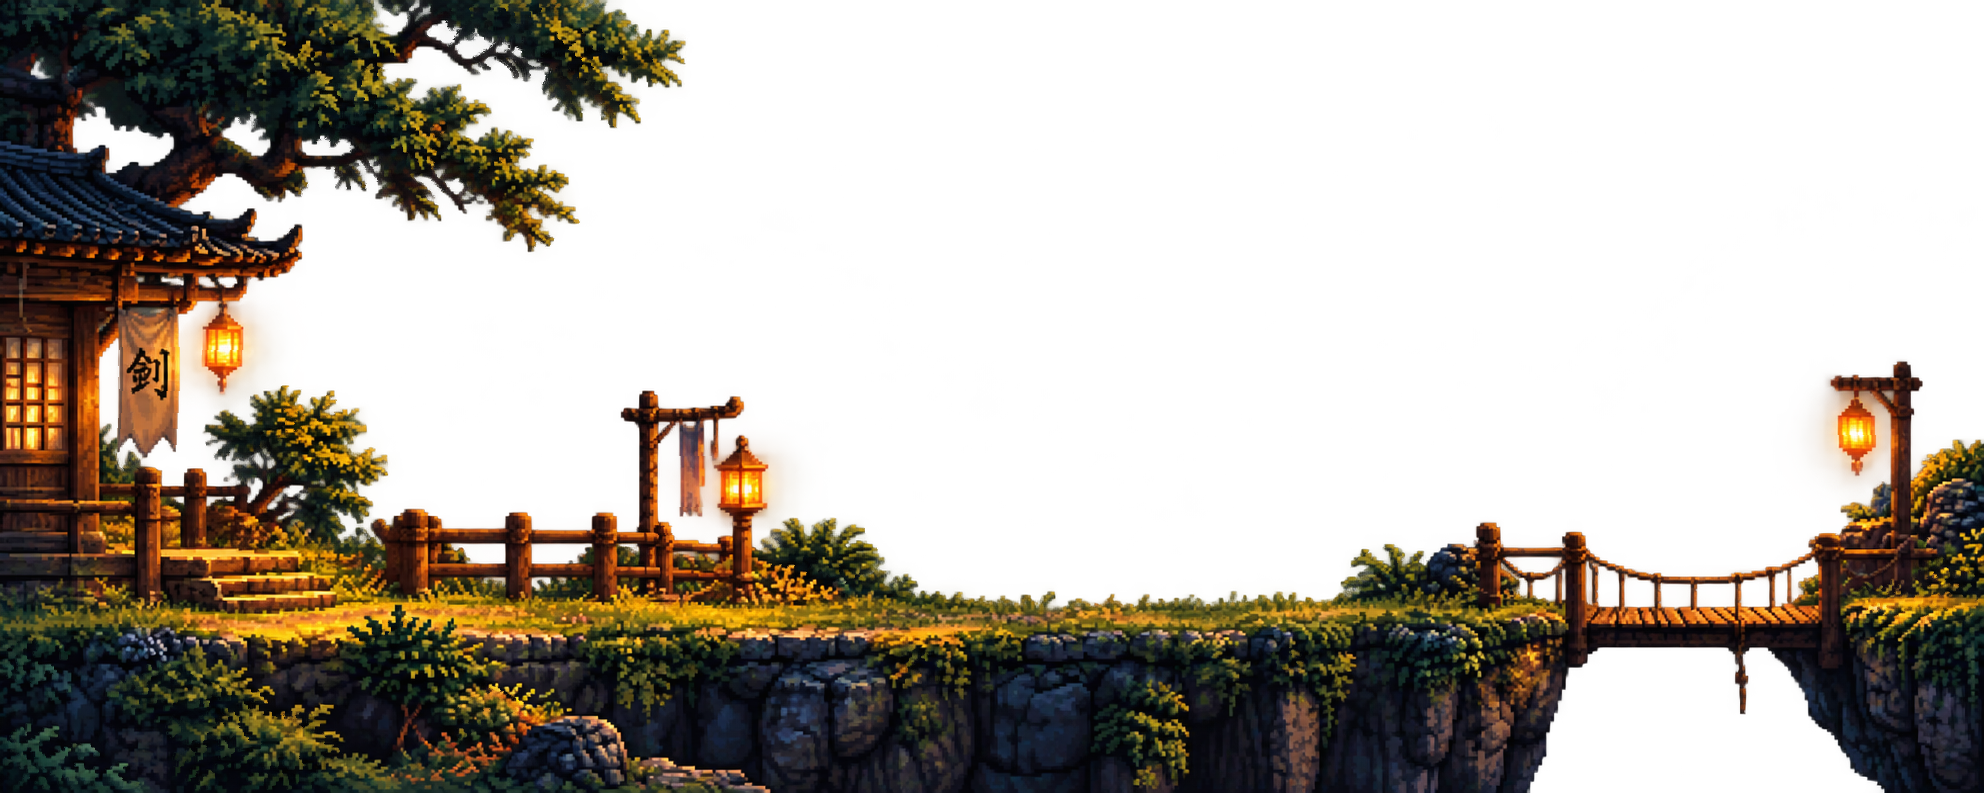
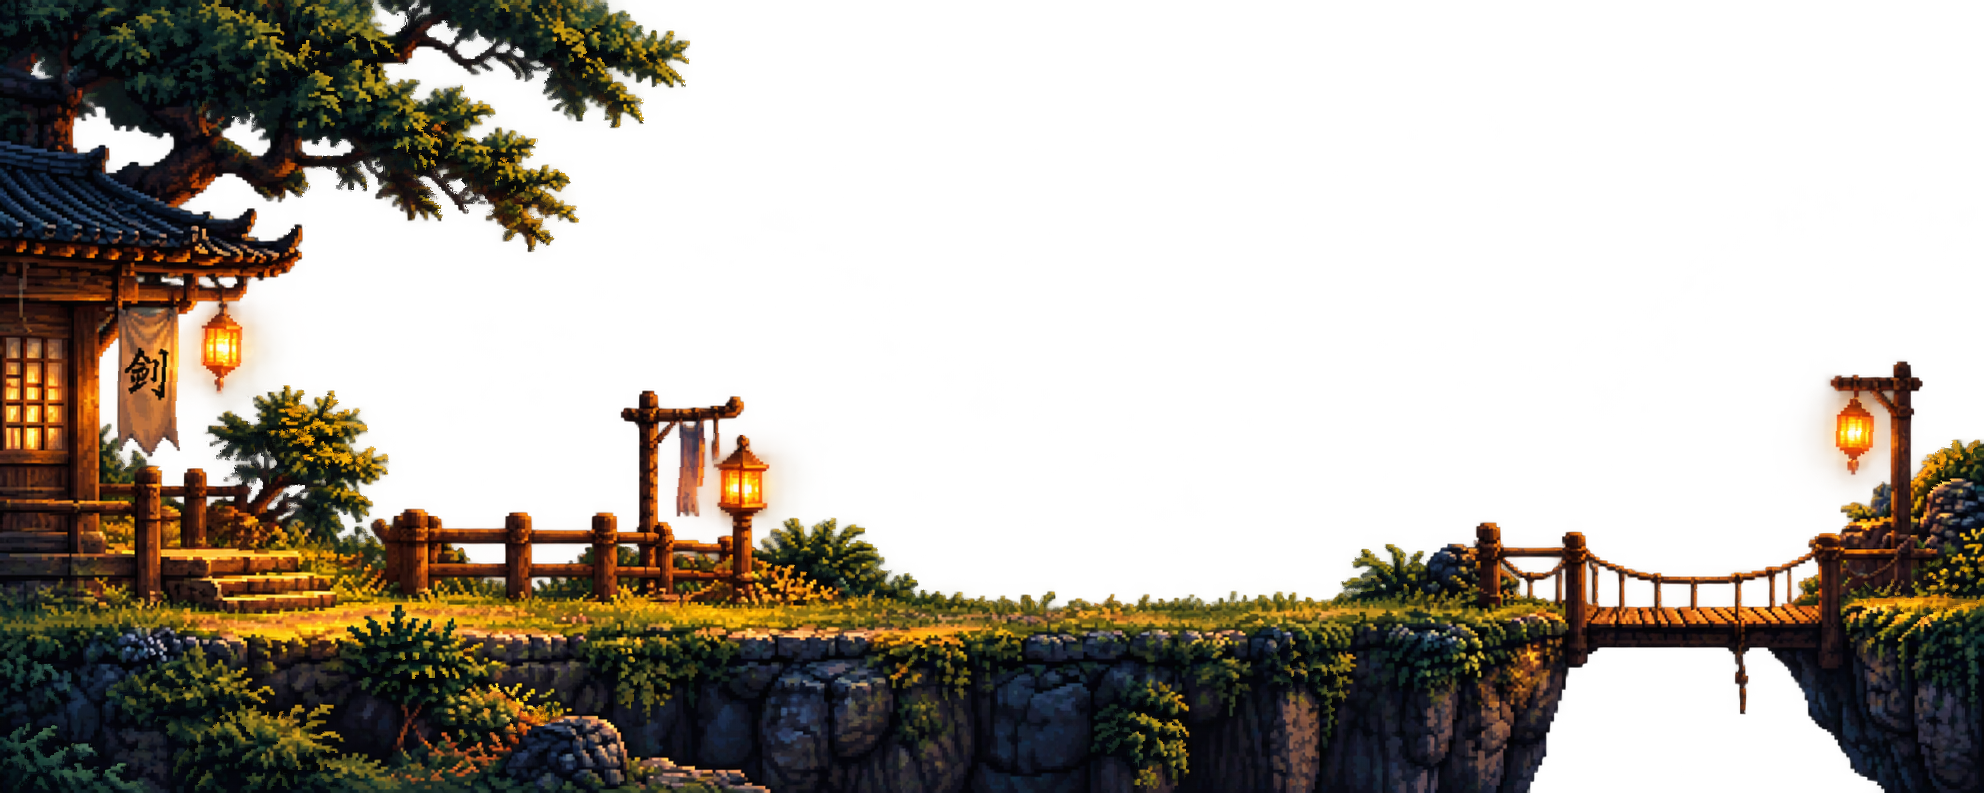
Improve 30-frame foreground motion with staggered foliage and continuous adjacent pose changes

diff --git a/output/foreground-30frames/preview.html b/output/foreground-30frames/preview.html
@@ -2,12 +2,12 @@
 <html lang="zh-CN">
 <meta charset="utf-8">
 <meta name="viewport" content="width=device-width,initial-scale=1">
-<title>30 帧透明像素前景预览</title>
+<title>30 帧透明像素前景预览 · 调整版</title>
 <style>
 body{margin:0;padding:24px;background:#14191f;color:#e8edf2;font:15px system-ui,sans-serif}main{max-width:1984px;margin:auto}h1{font-size:22px}button,select{padding:8px 12px;border:1px solid #687581;border-radius:5px;color:inherit;background:#29333d}label{display:inline-flex;gap:8px;align-items:center;margin-left:12px}.stage{overflow:auto;margin-top:20px;border:1px solid #4c5963;background-color:#64717a;background-image:linear-gradient(45deg,#75828a 25%,transparent 25%),linear-gradient(-45deg,#75828a 25%,transparent 25%),linear-gradient(45deg,transparent 75%,#75828a 75%),linear-gradient(-45deg,transparent 75%,#75828a 75%);background-size:24px 24px;background-position:0 0,0 12px,12px -12px,-12px 0}canvas{display:block;width:1984px;height:793px;image-rendering:pixelated}p{color:#bac7d1}
 </style>
 <main>
-<h1>30 帧透明像素前景</h1>
+<h1>30 帧透明像素前景 · 调整版</h1>
 <p>原始尺寸 1984 × 793。默认 15 FPS / 2 秒循环。将整个文件夹下载到本地后打开本页即可预览。</p>
 <button id="play">暂停</button><button id="next">下一帧</button>
 <label>速度 <select id="fps"><option>10</option><option selected>15</option><option>20</option><option>30</option></select> FPS</label>
@@ -19,7 +19,7 @@ body{margin:0;padding:24px;background:#14191f;color:#e8edf2;font:15px system-ui,
 const canvas=document.querySelector('#view'),ctx=canvas.getContext('2d'),status=document.querySelector('#status');
 ctx.imageSmoothingEnabled=false;
 let frame=0,playing=true,fps=15,previous=0,ready=false;
-const frames=Array.from({length:30},(_,i)=>{const im=new Image();im.src=`frame_${String(i+1).padStart(3,'0')}.png`;return im});
+const frames=Array.from({length:30},(_,i)=>{const im=new Image();im.src=`frame_${String(i+1).padStart(3,'0')}.png?revision=2`;return im});
 function draw(){ctx.clearRect(0,0,1984,793);ctx.drawImage(frames[frame],0,0);status.textContent=`第 ${frame+1} / 30 帧 · ${fps} FPS · 透明背景`}
 Promise.all(frames.map(im=>im.decode())).then(()=>{ready=true;draw()}).catch(()=>status.textContent='加载失败：请将本页与 30 张 PNG 放在同一文件夹。');
 document.querySelector('#play').onclick=()=>{playing=!playing;document.querySelector('#play').textContent=playing?'暂停':'播放';previous=0};

diff --git a/output/foreground-30frames/README.md b/output/foreground-30frames/README.md
@@ -1,9 +1,12 @@
-# 30 帧透明像素前景动画
+# 30 帧透明像素前景动画 · 调整版
 
-- 文件：frame_001.png 至 frame_030.png，按编号顺序循环。
+本文件夹集中存放全部 30 张 PNG：**frame_001.png 至 frame_030.png**，按编号顺序循环播放。
+
 - 原始尺寸：1984 × 793；每帧为 RGBA PNG，透明背景。
 - 建议播放：15 FPS，2 秒循环；使用 nearest / point 采样。
-- 运动：树叶和灌木轻微摆动、悬挂灯笼轻摆、两面旗帜飘动。中间立式灯的支柱保持固定。
-- 第一帧与原图逐像素相同；建筑、屋顶、栅栏、桥、地面和岩石固定。
-- 所有帧均从原图按整数像素采样，不缩放、不添加模糊或插值颜色。
+- 调整：各簇树叶和灌木错开摆动；适当增加轻晃幅度，旗帜持续起伏，悬挂灯笼与流苏错开运动。
+- 建筑、屋顶、栅栏、桥、地面、岩石及灯柱保持固定。
+- 所有帧均从原图按整数像素采样，不缩放、不添加模糊或插值颜色。首帧从微风循环中的自然姿态开始。
+- 已核对全部相邻帧及第 30 → 1 帧的衔接，可见变化不再集中在少数几帧。
+- 下载完整文件夹后打开 preview.html，可播放、暂停或逐帧查看。
 - animation.json 提供帧顺序、尺寸和建议播放参数。
